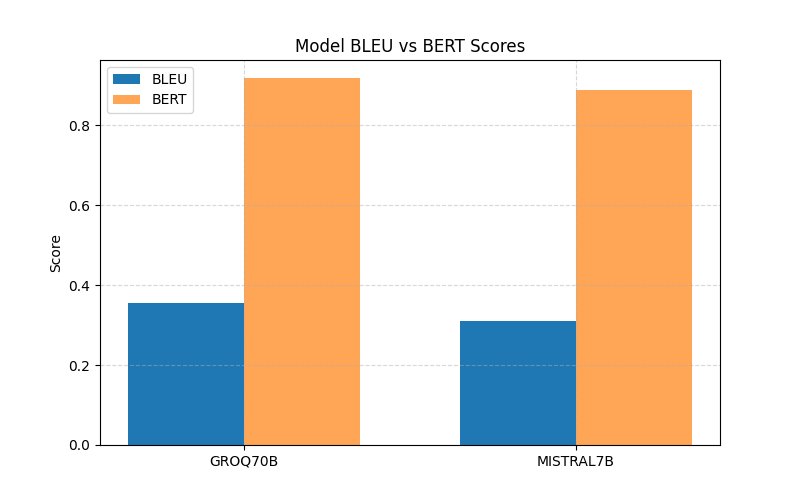
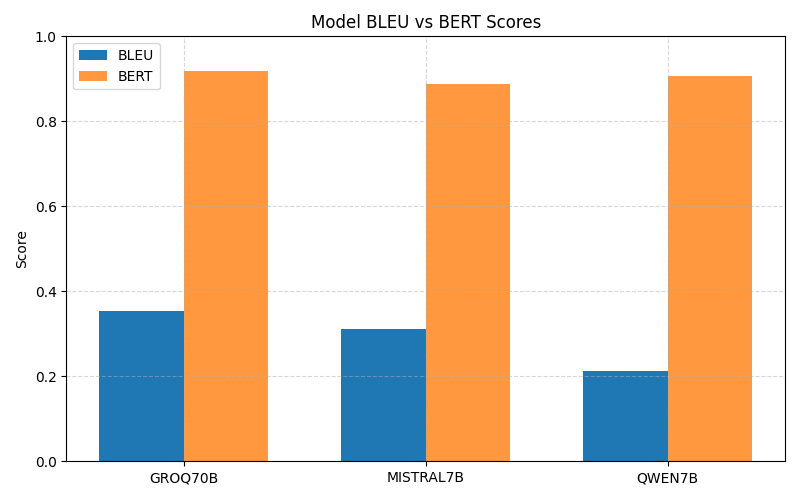
graphs for 3 model

diff --git a/evaluation/plot_success_boxplot.py b/evaluation/plot_success_boxplot.py
@@ -2,34 +2,44 @@ import pandas as pd
 import seaborn as sns
 import matplotlib.pyplot as plt
 
-# Load CSVs
-df1 = pd.read_csv("evaluation_groq70b_bleu_bert_human.csv")
-df2 = pd.read_csv("evaluation_mistral7b_bleu_bert_human.csv")
+# === Load CSVs ===
+df1 = pd.read_csv("evaluation/groq70b_bleu_bert_human.csv")
+df2 = pd.read_csv("evaluation/mistral7b_bleu_bert_human.csv")
+df3 = pd.read_csv("evaluation/qwen7b_bleu_bert_human.csv")
 
+
+# === Add model names ===
 df1["Model"] = "groq70b"
 df2["Model"] = "mistral7b"
-df = pd.concat([df1, df2])
+df3["Model"] = "qwen7b"
 
+# === Combine all DataFrames ===
+df = pd.concat([df1, df2, df3])
+
+# === Create Success/Unsuccessful Grouping ===
 df["Success"] = df["Human"].apply(lambda x: "Success" if x == 1 else "Unsuccessful")
 df["Group"] = df["Model"] + " - " + df["Success"]
 
-# Final color palette (4)
+# === Define Final 6-Color Palette ===
 palette = {
-    "groq70b - Success": "#2b922b",        # green
-    "groq70b - Unsuccessful": "#CB3333",   # red
-    "mistral7b - Success": "#2885c8",      # blue
-    "mistral7b - Unsuccessful": "#ca731c"  # orange
+    "groq70b - Success": "#2b922b",
+    "groq70b - Unsuccessful": "#CB3333",
+    "mistral7b - Success": "#2885c8",
+    "mistral7b - Unsuccessful": "#ca731c",
+    "qwen7b - Success": "#8a2be2",
+    "qwen7b - Unsuccessful": "#888888"
 }
 
-# === BERT Score Boxplot + Overlay Dots
-plt.figure(figsize=(10, 6))
+# === BERT Score Boxplot + Overlay ===
+plt.figure(figsize=(12, 6))
 sns.boxplot(x="Success", y="BERT", hue="Group", data=df, palette=palette, showfliers=False)
 sns.stripplot(x="Success", y="BERT", hue="Group", data=df, palette=palette,
               dodge=True, alpha=0.5, linewidth=1, edgecolor='gray')
 
-plt.title("BERT Score Distribution: Successful vs Unsuccessful (4-color)")
+plt.title("BERT Score Distribution: Successful vs Unsuccessful (3 Models)")
 plt.ylabel("BERT Score")
+plt.xlabel("")
 plt.legend(title="Group", bbox_to_anchor=(1.05, 1), loc='upper left')
 plt.tight_layout()
-plt.savefig("evaluation/bert_score_boxplot_colored.png")
+plt.savefig("evaluation/bert_score_boxplot.png")
 plt.show()

diff --git a/evaluation/plot_model_results.py b/evaluation/plot_model_results.py
@@ -3,11 +3,13 @@ import matplotlib.pyplot as plt
 
 # === Config ===
 csv_paths = [
-    "evaluation_groq70b_bleu_bert_human.csv",
-    "evaluation_mistral7b_bleu_bert_human.csv"
+    "evaluation/groq70b_bleu_bert_human.csv",
+    "evaluation/mistral7b_bleu_bert_human.csv",
+    "evaluation/qwen7b_bleu_bert_human.csv"
+    #"evaluation/pie_bleu_bert_human.csv" 
 ]
 
-model_names = ["GROQ70B", "MISTRAL7B"]
+model_names = ["GROQ70B", "MISTRAL7B", "QWEN7B",]    
 
 # === Read CSVs ===
 dataframes = [pd.read_csv(path) for path in csv_paths]
@@ -22,7 +24,9 @@ plt.figure(figsize=(8, 5))
 plt.bar(model_names, accuracy, color='skyblue')
 plt.title("Model Exact Match Accuracy")
 plt.ylabel("Accuracy (0–1)")
+plt.ylim(0, 1)
 plt.grid(True, linestyle='--', alpha=0.5)
+plt.tight_layout()
 plt.savefig("evaluation/model_accuracy.png")
 
 # === BLEU + BERT Scores Plot ===
@@ -30,13 +34,15 @@ bar_width = 0.35
 x = range(len(model_names))
 
 plt.figure(figsize=(8, 5))
-plt.bar([i - bar_width/2 for i in x], bleu, width=bar_width, label="BLEU")
-plt.bar([i + bar_width/2 for i in x], bert, width=bar_width, label="BERT", alpha=0.7)
+plt.bar([i - bar_width/2 for i in x], bleu, width=bar_width, label="BLEU", color="#1f77b4")
+plt.bar([i + bar_width/2 for i in x], bert, width=bar_width, label="BERT", color="#ff7f0e", alpha=0.8)
 plt.xticks(x, model_names)
 plt.title("Model BLEU vs BERT Scores")
 plt.ylabel("Score")
+plt.ylim(0, 1)
 plt.legend()
 plt.grid(True, linestyle='--', alpha=0.5)
+plt.tight_layout()
 plt.savefig("evaluation/bleu_bert_scores.png")
 
 print("✅ All plots saved to evaluation/ folder using CSV data.")

diff --git a/fine-tuning/validate_outputs_multi.py b/fine-tuning/validate_outputs_multi.py
@@ -3,14 +3,13 @@ import json
 import pandas as pd
 from nltk.translate.bleu_score import sentence_bleu, SmoothingFunction
 from difflib import get_close_matches
-from bert_score import score as bert_score  # BERT score enabled
+from bert_score import score as bert_score 
 
-# === SETTINGS ===
 MODELS = [
     {"name": "mistral7b", "file": "./fine-tuning/mistral7b.jsonl"},
     {"name": "groq70b", "file": "./fine-tuning/groq70b.jsonl"},
     # {"name": "llama7b", "file": "./fine-tuning/llama7b.jsonl"},
-    # {"name": "qwen7b", "file": "./fine-tuning/qwen7b.jsonl"},
+     {"name": "qwen7b", "file": "./fine-tuning/qwen7b.jsonl"},
 ]
 
 ground_truth_file = "./groundTruth/ground_truth.jsonl"
@@ -27,7 +26,7 @@ gt_keys = list(gt_map.keys())
 for model in MODELS:
     model_name = model["name"]
     model_file = model["file"]
-    output_file = f"evaluation_{model_name}_bleu_bert_human.csv"
+    output_file = f"evaluation/{model_name}_bleu_bert_human.csv"
 
     try:
         with open(model_file, "r", encoding="utf-8") as f:

diff --git a/fine-tuning/recompute_human_scores.py b/fine-tuning/recompute_human_scores.py
@@ -3,10 +3,11 @@ from difflib import SequenceMatcher
 
 # === CONFIG ===
 files = [
-    "evaluation_groq70b_bleu_bert_human.csv",
-    "evaluation_mistral7b_bleu_bert_human.csv"
+    "evaluation/groq70b_bleu_bert_human.csv",
+    "evaluation/mistral7b_bleu_bert_human.csv",
+    "evaluation/qwen7b_bleu_bert_human.csv"
 ]
-similarity_threshold = 0.94  # adjust based on your tolerance
+similarity_threshold = 0.90  # adjust based on your tolerance
 
 
 def compute_similarity(a, b):
